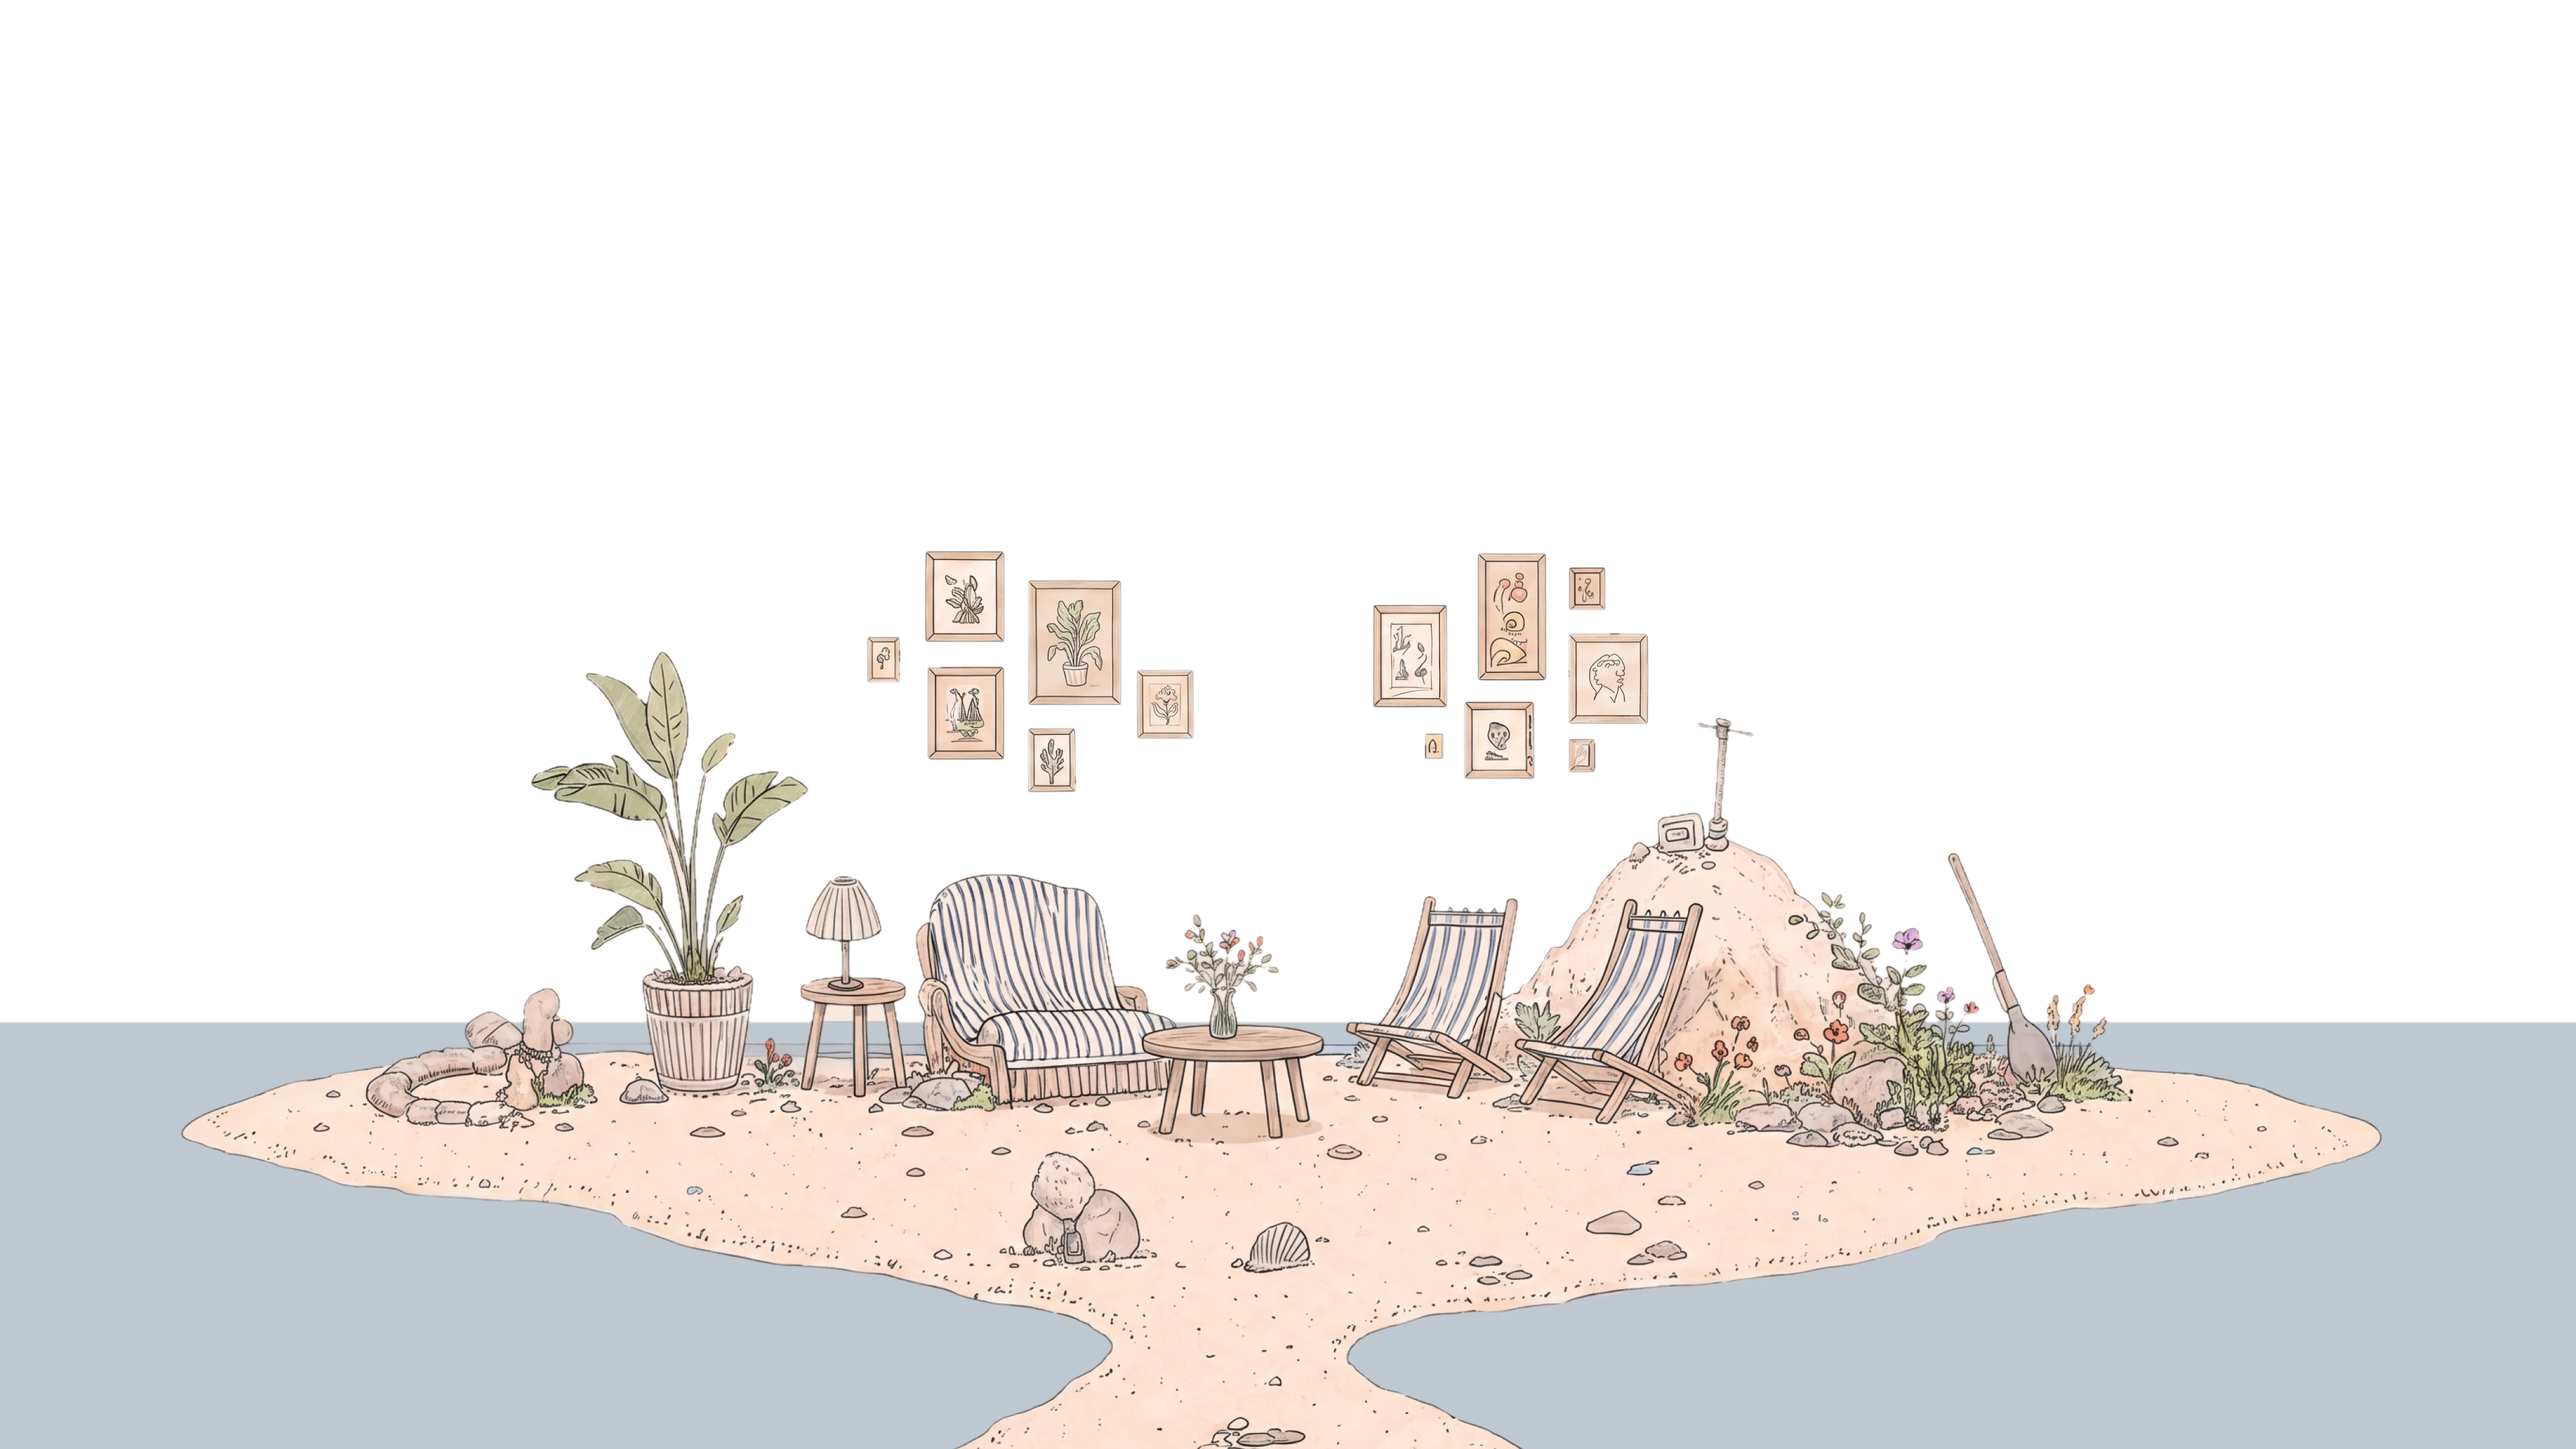
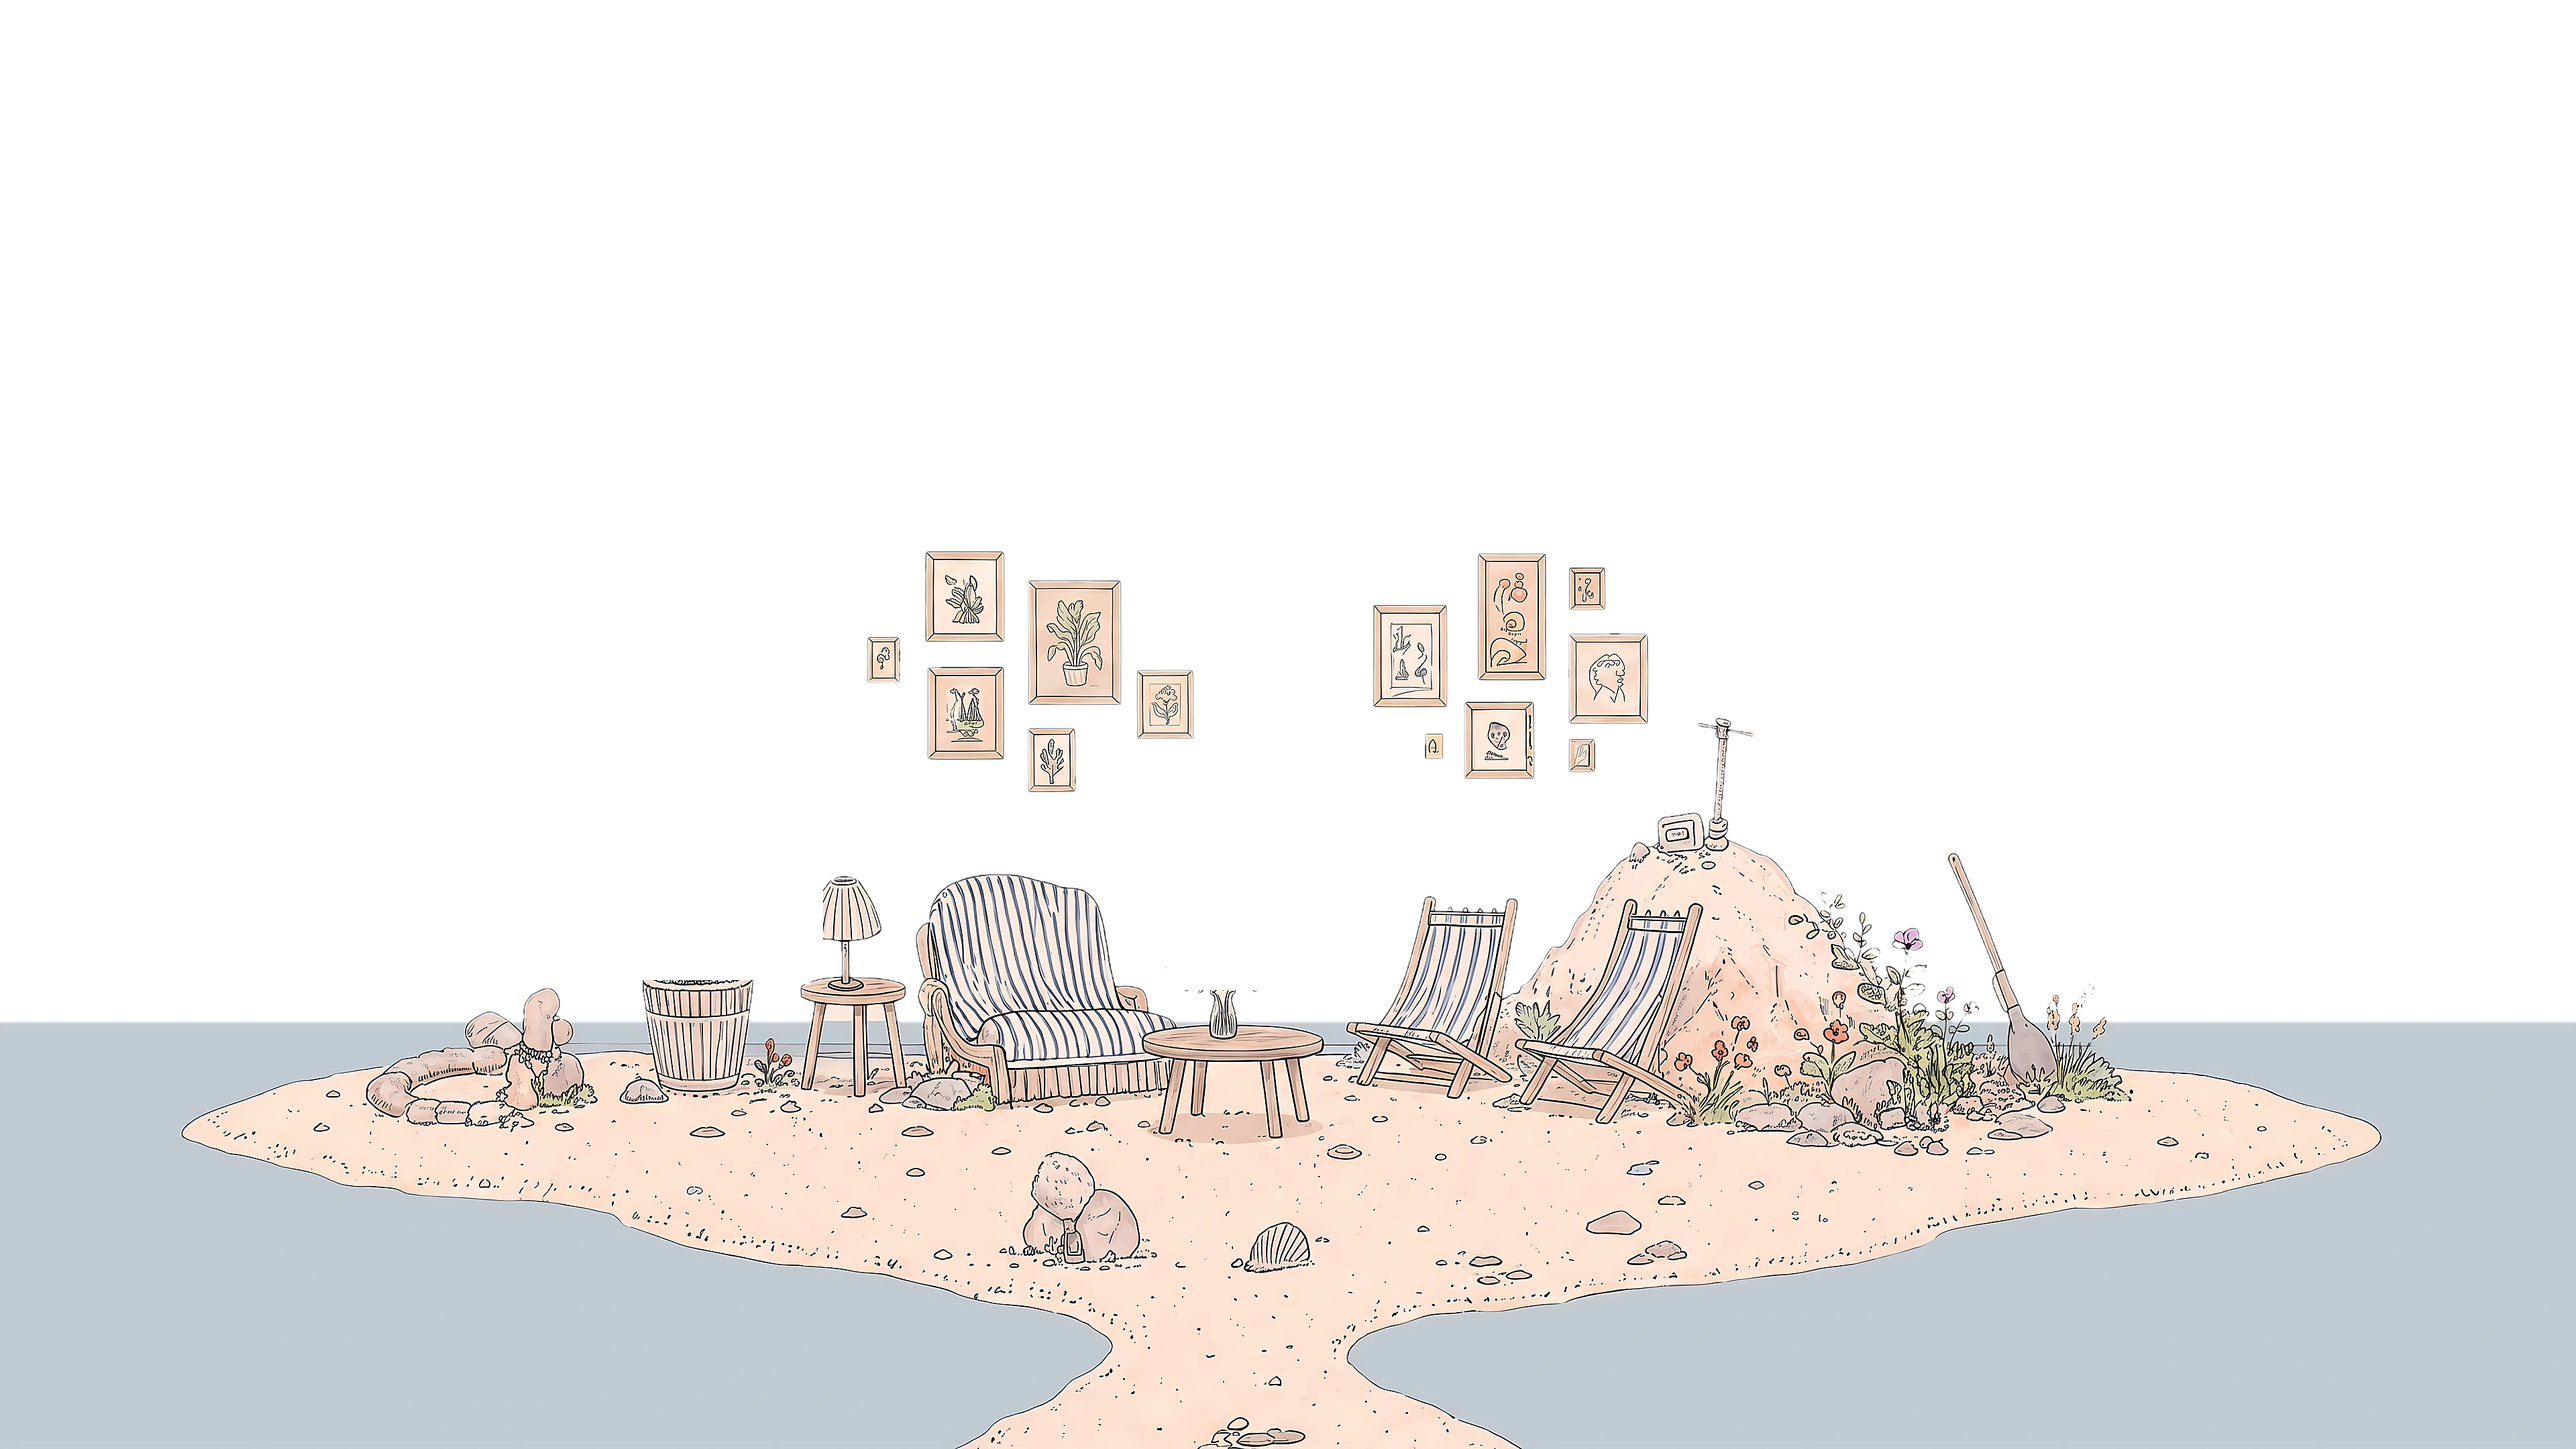
저장소 안 화면에도 움직임과 선명한 그림: 바다 물결·흘러가는 구름·하늘 새·화분 잎과 꽃병 꽃 살랑·언덕 들꽃 일렁

diff --git a/lib/scene-motion.ts b/lib/scene-motion.ts
@@ -74,3 +74,21 @@ export const STORAGE_MOTION: SceneMotionConfig = {
     ],
   },
 };
+
+// 저장소 안 (/storageinside): 액자가 걸린 섬. 화분 잎과 꽃병 꽃이 살랑, 언덕 들꽃이 일렁
+export const STORAGE_INSIDE_MOTION: SceneMotionConfig = {
+  sea: { mask: "/scenes/inside-sea-mask.png", fade: [70, 80] },
+  palms: [
+    { src: "/scenes/inside-pot.png", left: 20.547, top: 44.907, width: 11.354, origin: "51.6% 99.8%", duration: 6.2, delay: -2 },
+    { src: "/scenes/inside-vase.png", left: 45.312, top: 63.056, width: 4.375, origin: "48.2% 99.1%", duration: 4.8, delay: -0.7 },
+  ],
+  plants: [{ src: "/scenes/inside-plants.webp", left: 29.635, top: 61.528, width: 53.125 }],
+  birds: {
+    sky: { left: 4, right: 96, top: 6, bottom: 30 },
+    width: 3.4,
+    starts: [
+      { start: [80, 14], size: 1 },
+      { start: [16, 22], size: 0.8 },
+    ],
+  },
+};

diff --git a/app/storageinside/page.tsx b/app/storageinside/page.tsx
@@ -1,5 +1,7 @@
 "use client";
 
+import { SceneMotion } from "@/components/SceneMotion";
+import { STORAGE_INSIDE_MOTION } from "@/lib/scene-motion";
 import { MoodSkyBackground } from "@/components/MoodSkyBackground";
 import {
   DEFAULT_NOTIFICATIONS,
@@ -16,7 +18,8 @@ export default function StorageInsidePage() {
   return (
     <>
       <div className="relative h-screen w-screen overflow-hidden">
-        <MoodSkyBackground scene="storageinside" />
+        <MoodSkyBackground scene="storageinside" clouds />
+        <SceneMotion config={STORAGE_INSIDE_MOTION} />
         <h1 className="sr-only">저장소</h1>
 
         <button
